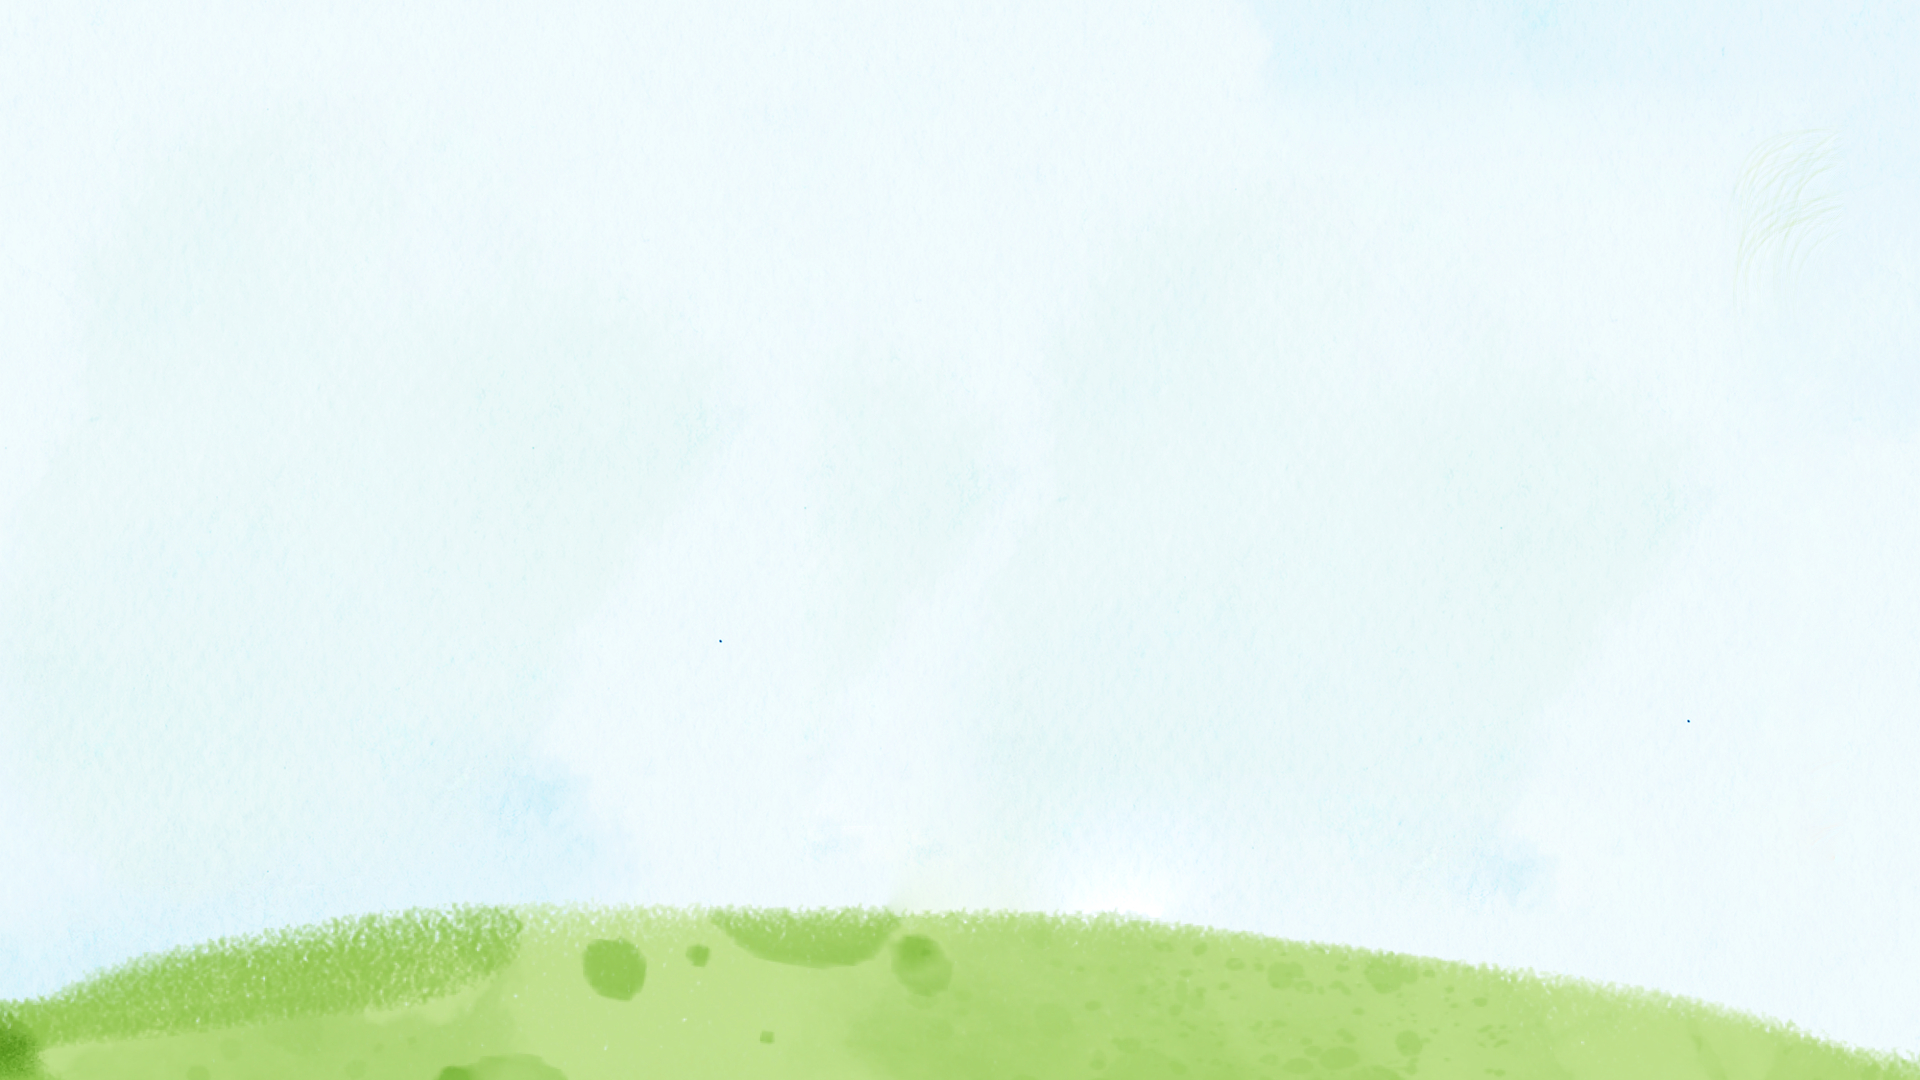
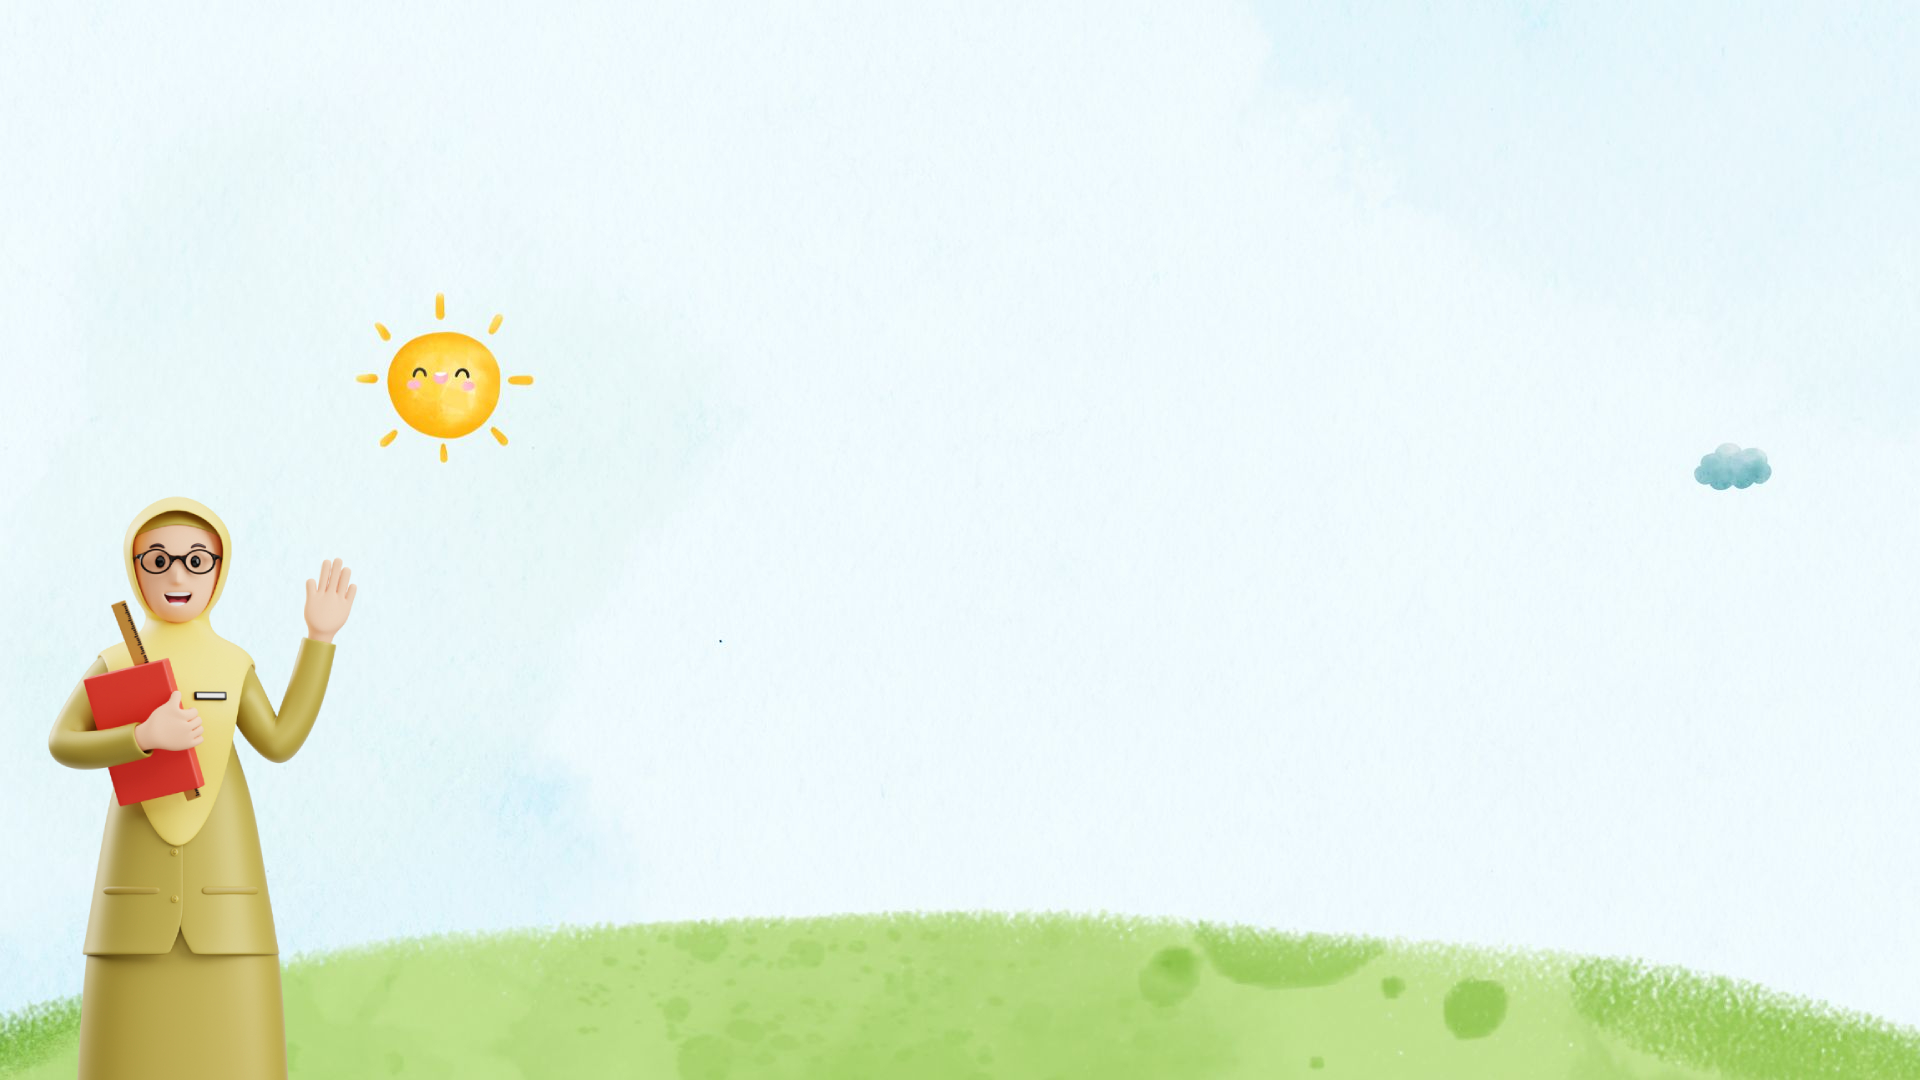
feat: rework background image

diff --git a/src/pages/WelcomePage/index.tsx b/src/pages/WelcomePage/index.tsx
@@ -4,7 +4,7 @@ import { images } from "../../constant/images";
 
 const WelcomePage = () => {
   return (
-    <div className="bg-title-page__phone tablet:bg-title-page__tablet relative flex h-screen w-full flex-col items-center justify-center bg-cover bg-top laptop:bg-center">
+    <div className="relative flex h-screen w-full flex-col items-center justify-center bg-welcome-page bg-cover bg-top laptop:bg-center">
       <div className="mt-4">
         <img
           src={images.STAR_LOGO}
@@ -18,7 +18,7 @@ const WelcomePage = () => {
         <span className="text-[#FFD2D6]">Application</span>{" "}
         <span className="text-[#FED38E]">Learning</span>
       </p> */}
-      <Link to="/#">
+      <Link to="/main-menu">
         <img
           src={icons.PLAY_BUTTON}
           alt="play-button-icon"

diff --git a/tailwind.config.js b/tailwind.config.js
@@ -14,12 +14,12 @@ export default {
         },
         extend: {
             backgroundImage: {
-                'title-page__tablet': "url('/src/assets/images/background/title_page_tablet.jpg')",
-                'title-page__phone': "url('/src/assets/images/background/title_page_phone.jpg')",
+                'welcome-page': "url('/src/assets/images/background/welcome-page.jpg')",
                 'main-menu': "url('/src/assets/images/background/main-menu.jpg')",
             },
             fontFamily: {
                 copyduck: ['Copyduck', 'sans-serif'],
+                'moresugar-regular': ['Moresugar', 'sans-serif'],
             },
             colors: {
                 'off-white': {
